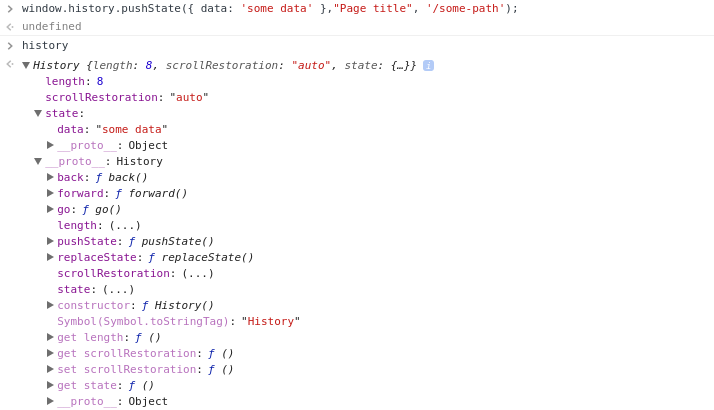
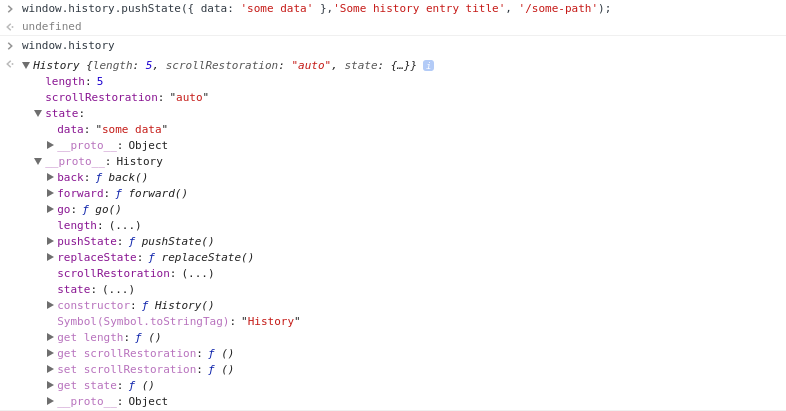
Finish editing client side routing in Vanilla JS article

Changed region(s): [[0.0308, 0.1463, 0.6162, 0.9951], [0.0, 0.0, 0.7703, 0.0293], [0.0308, 0.0585, 0.1541, 0.1171]]

diff --git a/_posts/2019-08-30-client-side-routing-in-vanilla-js.md b/_posts/2019-08-30-client-side-routing-in-vanilla-js.md
@@ -1,48 +1,56 @@
 ---
 layout: post
-title: "Implementing client side routing in VanillsJS"
-image: ""
-published: true
+title: "Implementing client side routing in Vanilla JS"
+image: "/images/client-side-routing-vanilla-js/train-track.jpg"
+published: false
 ---
 
-In contrast to traditional server side routing, SPA frameworks such as Angular and React use client side routing to handle navigation around an application. This client side routing is usually handled by some routing module or package, and for many developers how this routing actually works is something of a mystery. 
+In contrast to traditional server side routing, SPA frameworks such as Angular, React, Hyperapp and Vue use client side routing to handle navigation around an application. This client side routing is usually handled by some routing module or package, and for many developers how this routing actually works is something of a mystery. 
 
-In this article I will try and explain how client side routing works and walk you through how you can implement this client side routing functionality yourself. 
+The purpose of this article is to to take a deeper look at client side routing, and how we can write a simple implementation ourselves, using plain old Vanilla JS.
 
-Also, let me state that more than anything else this article is just for learning purposes, most of the time you are best off just using the router package or module which comes with your framework of choice. 
+First, will look at the basics of client side routing, including the behaviour we expect from single page application routing, and the challenges we will face when implementing it. Next, we will build a simple application with basic routing in Vanilla JS. Finally, we will think about the more advanced features that we usually see in client side routing packages, and implement one of them ourselves - parameterised routes.
+
+The code for the completed client side routing demo application can be found in [this Github repository](https://github.com/will093/client-side-routing-vanilla-js).
+
+Also, as a disclaimer, let me state that more than anything else this article is just for learning purposes, most of the time you are best off just using the router package or module which comes with your framework of choice. 
 
 # Routing basics
 
-First lets think about the behaviour that we have grown to expect from a single page application.
+First lets think about the behaviour that we have grown to expect from a single page application with routing.
 
-* When the application is first loaded, the route which is loaded and hence the content which is displayed is based on the url.
-* When the user navigates around within the application, the url changes. Without a full page reload a new route and hence some new content is displayed on the page, based on this new url.
-* When the user navigates using the browser forward/back buttons, they move through the stack of routes that they previously visited.
+* When the application is first loaded, the route which is loaded and the content which is displayed is determined by the URL path.
+* When the user navigates around by clicking a link within the application, the URL changes. Without a full page reload, a new route with new content is loaded, based on the new URL.
+* When the user navigates by clicking the browser forward/back buttons, they move through the stack of routes that they previously visited.
 
-When we think about implementing this ourselves, there are two main technical challenges which we are confronted with:
+If we think about implementing an application with this behaviour ourselves, there are two main technical challenges which we are confronted with:
 
-1. How do we change a url without causing a page reload, and preserve the behaviour of the browser forward/back buttons?
+1. How do we change the URL without causing a page reload, and also preserve the behaviour of the browser forward/back buttons?
 2. How do we map any given URL to the appropriate template (or component)?
 
-The answer to question 2 is more complicated and depends on exact requirements - we will look at implementing an algorithm which can do this later on. As for changing a url without causing a page reload, we will use a method on the `history` api called `pushState`.
+The answer to question 2 is more complicated and depends on exact requirements - we will look at implementing an algorithm which can do this later on. 
+
+As for changing a URL without causing a page reload, we will use a method on the `history` api called `pushState`.
 
 ## history.pushState
 
-The [history.pushState](https://developer.mozilla.org/en-US/docs/Web/API/History_API#The_pushState()_method) method is part of HTML5 and is supported by all modern browsers. It allows you to push an entry to the browser's `history` object, specifying a state object for passing data to the new history entry, a title, and the url for the history entry.
+The [history.pushState](https://developer.mozilla.org/en-US/docs/Web/API/History_API#The_pushState()_method) method is part of HTML5 and is supported by all modern browsers. It allows you to push an entry to the browser's `history` object, specifying a state object for passing data to the new history entry, a title, and the URL for the history entry.
 
 ```js
-window.history.pushState({ data: 'some data' },"Page title", '/some-path');
+window.history.pushState({ data: 'some data' },'Some history entry title', '/some-path');
 ```
 
-We can test out the above by pasting it into the console inside of Chrome's developer tools. You should see that the url changes from whatever it was to '\<base-url\>/some-path'.
+We can test out the above by opening up a website in Chrome, and pasting it into the console inside of Chrome's developer tools. You should see that the URL changes from whatever it was to '\<website-base-url\>/some-path'.
 
-Now, if you type the command `window.history` into the console, you will see that the history object has been updated with this new entry, including the state object which we passed it, and the title (note that confusingly this [title will not be used as the page title](https://stackoverflow.com/a/13817807/11047122) in most browsers, and is just used as an 'advisory' title for this history entry).
+Now, if you type the command `window.history` into the console, you will see that the history object has been updated with this new entry, including the state object which we passed it, and the title.
 
 ![Chrome developer tools history object](/images/client-side-routing-vanilla-js/pushstate-console.png)
 
-Also, note that we can navigate backwards and forwards from this '/some-url' using the browser navigation buttons.
+Note that the title we pass in as an argument [will not be used as the page title](https://stackoverflow.com/a/13817807/11047122) in most browsers, and is just used as an 'advisory' title for this history entry.
 
-Now that we have had a look at routing basics including `history.pushState`, we are ready to implement a simple Vanilla JS application with basic routing.
+Also, note that we can navigate backwards and forwards from '/some-url' using the browser navigation buttons.
+
+Now that we have had a look at routing basics, including `history.pushState`, we are ready to implement a simple Vanilla JS application with basic routing.
 
 # Implementing a simple app
 
@@ -71,15 +79,17 @@ Our 'app' will just consist of an `index.html` containing the following code:
 </html>
 ```
 
-Ok, so its a pretty basic application - in fact just a HTML template.
+Ok, so its a pretty basic application - in fact for now it is just a HTML template.
 
-To run this, we will use an npm package called `http-server-spa`. This package is similar to `http-server`, but will allow us to fall back to `index.html` if a route does not match any resource on the server. This behaviour is the usual behaviour of a single page application, and will be useful for the purpose of this tutorial.
+To serve our application, we will use an npm package called `http-server-spa`. This package is similar to `http-server`, but will allow us to fall back to serving up `index.html` if a route does not match any resource on the server. This behaviour is the usual behaviour of a single page application, and will prove useful for the purpose of this tutorial.
+
+To install `http-server-spa`, run:
 
 ```
 npm install http-server-spa -g
 ```
 
-Now to run our application, from the root of your project, run:
+Now, to run our application, from the root of your project run:
 
 ```
 http-server-spa . ./index.html
@@ -87,7 +97,9 @@ http-server-spa . ./index.html
 
 This will server the current folder, with `index.html` as a fallback.
 
-If you navigate to `http://localhost:8080`, you should see the page/application.
+If you navigate to `http://localhost:8080`, you should see the application.
+
+![SPA routing demo](/images/client-side-routing-vanilla-js/spa-routing-demo.png)
 
 # Implementing routing
 
@@ -110,7 +122,7 @@ const routes = [
 ];
 ```
 
-This is just an array of route objects, our matching algorithm will loop through this array and attempt to match the URL to one of these. We won't worry about more advanced features like nested routes or parameterised routes just yet.
+This is just an array of route objects - we will soon implement a route matching algorithm which, when the user navigates within the app, will loop through the array and attempt to match the current URL to one of these. In our implementation, we won't worry about more advanced features like nested routes or parameterised routes just yet.
 
 Now lets implement our router - create a file named `router.js` and add the following code:
 
@@ -123,27 +135,29 @@ class Router {
   }
 
   loadRoute(...urlSegments) {
-    // Attempt to match the url to a route.
+    // Attempt to match the URL to a route.
     const matchedRoute = this._matchUrlToRoute(urlSegments);
 
-    // Push a history entry with the new url.
-    // We pass an empty object and an empty string as the historyState and title arguments, but their values do not really matter here.
+    // Push a history entry with the new URL.
+    // We pass an empty object and an empty string as the historyState
+    // and title arguments, but their values do not really matter here.
     const url = `/${urlSegments.join('/')}`;
     history.pushState({}, '', url);
 
-    // Append the given template to the DOM inside the router outlet.
+    // Append the template of the matched route to the DOM, inside the element with attribute data-router-outlet.
     const routerOutletElement = document.querySelectorAll('[data-router-outlet]')[0];
-    routerOutletElement.innerHTML = '';
-    // insertAdjacentHtml preserves any event handlers (setting innerHTML does not).
-    routerOutletElement.insertAdjacentHTML('beforeend', matchedRoute.template);
+    routerOutletElement.innerHTML = matchedRoute.template;
   }
 
   _matchUrlToRoute(urlSegments) {
     // Try and match the URL to a route.
     const matchedRoute = this.routes.find(route => {
-      // Assume that the route path always starts with a slash, and so the first item in the segments array 
-      // will always be an empty string. Slice the array to ignore this empty string.
+
+      // We assume that the route path always starts with a slash, and so 
+      // the first item in the segments array  will always be an empty
+      // string. Slice the array at index 1 to ignore this empty string.
       const routePathSegments = route.path.split('/').slice(1);
+
       // If there are different numbers of segments, then the route does not match the URL.
       if (routePathSegments.length !== urlSegments.length) {
         return false;
@@ -159,21 +173,28 @@ class Router {
     // Figure out the path segments for the route which should load initially.
     const pathnameSplit = window.location.pathname.split('/');
     const pathSegments = pathnameSplit.length > 1 ? pathnameSplit.slice(1) : '';
+
     // Load the initial route.
     this.loadRoute(...pathSegments );
   }
 }
 ```
 
-In the above, `loadRoute` has 3 main steps:
+The important part of the above is the `loadRoute` function, which has 3 main steps:
 
-1. Attempt to match the url to a route. 
+1. **Attempt to match the URL to a route.**
 
-  Our `_matchUrlToRoute` function will handle this, by searching for the first route where there are equal number of segments in the route path, and for each index the segments at that index are identical.
+    Our `_matchUrlToRoute` function will handle this, by searching for the first route where there are equal number of segments in the route path, and for each index the segments at that index are identical.
 
-2. Build a url from the `urlSegments`, and push a history entry with that url (this will update the url shown in the browser address bar).
+2. **Update the URL shown in the browser address bar**
 
-3. Replace the contents of the element marked as `data-router-outlet` with the template corresponding to the matched route.
+    We build a URL from the `urlSegments` (which in our case come from the values hardcoded into our HTML template), and then push a new history entry with this URL using `history.pushState`.
+
+3. **Update the DOM with the template for the new route**
+
+    This is done be replacing the contents of the element with the attribute `data-router-outlet` with the template corresponding to the matched route. We do this using `innerHTML` because it is easy. This technique is not suitable for production though, as it is makes our application vulnerable to JavaScript injection as we will discuss later.
+
+Note that we also have a `_loadInitialRoute` function which gets called in the constructor of our router, and will cause the correct route to load when the user first loads the application.
 
 Finally lets bring all of this together inside of `index.js`, where we will create an instance of our router, passing to it our array of routes:
 
@@ -210,19 +231,19 @@ Our `index.html` also needs updating with our new routing functionality.
 </html>
 ```
 
-Note how when our navigation buttons are clicked, we load the corresponding route by calling our `router.loadRoute` function, passing the url segments as individual string parameters.
+Note how when our navigation buttons are clicked, we load the corresponding route by calling our `router.loadRoute` function, passing the URL segments as individual string parameters.
 
-Now if you run the application again and go back to your browser, you should be able to navigate between the routes that we have created using Home/About/Contact buttons. If you have a play around, you will also see that the browser back, forward and refresh buttons work as usual.
+Now, if you run the application again and go back to your browser, you should be able to navigate between the routes that we have created using the ''Home', 'About' and 'Contact' buttons. If you have a play around, you will also see that the browser back, forward and refresh buttons work as expected.
 
 # Additional features
 
-The router that we have implemented is very basic. Most client side routers support more advanced features such as nested routing/child routes, parameterised routes, route data resolvers, and more. We won't look at all of these in this article, but the one I will cover here is extending the router to work with parameterised routes.
+The router that we have implemented is very basic. Most client side routers support more advanced features such as child routes, parameterised routes, route data resolvers, and more. We won't look at all of these in this article, but the one that I will talk about here is extending the router to work with parameterised routes.
 
 ## Implementing parameterised routes
 
-We will update our router to support parameterised routes, using the ':' token to indicate a parameterised route segment. For example: `/products/:productId`.
+We will update our router to support parameterised routes, using the `:` token to indicate a parameterised route segment. For example: `/products/:productId`.
 
-First lets add a route of this form. Inside of `routes.js` add the following at the end of the routes array:
+First lets add a route of this form. Inside of `routes.js`, add the following at the end of the routes array:
 
 ```js
 const routes = [
@@ -234,7 +255,7 @@ const routes = [
 ];
 ```
 
-Once we have parameterised routes, it would be nice to be able to render the template based on our route parameters. Lets get rid of our template property and replace it with a `getTemplate` function which will take our route parameters as an argument.
+Once we have parameterised routes, it would be nice to be able to render our templates based on our route parameters. Lets get rid of our template property and replace it with a `getTemplate` function, which will take our route parameters as an argument.
 
 ```js
 const routes = [
@@ -257,27 +278,32 @@ const routes = [
 ];
 ```
 
-Next, we need to update our algorithm for matching a url to a route.
+Next, we need to update our algorithm for matching a URL to a route.
 
 ```js
 _matchUrlToRoute(urlSegments) {
-  // Try and match the URL to a route.
   const routeParams = {};
+
+  // Try and match the URL to a route.
   const matchedRoute = this.routes.find(route => {
-    // Assume that the route path always starts with a slash, and so the first item in the segments array 
-    // will always be an empty string. Slice the array to ignore this empty string.
+
+    // We assume that the route path always starts with a slash, and so 
+    // the first item in the segments array  will always be an empty
+    // string. Slice the array at index 1 to ignore this empty string.
     const routePathSegments = route.path.split('/').slice(1);
+
     // If there are different numbers of segments, then the route does not match the URL.
     if (routePathSegments.length !== urlSegments.length) {
       return false;
     }
 
-    // If each segment in the url matches the corresponding route path, then the route is matched.
+    // If each segment in the url matches the corresponding segment in the route path, 
+    // or the route path segment starts with a ':' then the route is matched.
     const match = routePathSegments.every((routePathSegment, i) => {
       return routePathSegment === urlSegments[i] || routePathSegment[0] === ':';
     });
 
-    // If the route matches the url, pull out any params from the URL.
+    // If the route matches the URL, pull out any params from the URL.
     if (match) {
       routePathSegments.forEach((segment, i) => {
         if (segment[0] === ':') {
@@ -292,16 +318,16 @@ _matchUrlToRoute(urlSegments) {
 }
 ```
 
-Here, we have changed the logic of our matching algorithm. Now, for a url to match a route path, each segment of the route path must either match the url segment with the same index, or it can start with a `':'`, which signifies that it is a parametersied route parameter, and so will take the value of the url segment with the same index.
+Now, for a URL to match a route path, each segment of the route path must either match the URL segment with the same index, or start with a `':'`, which signifies that it is a parametersied route parameter and so will take the value of the URL segment with the same index.
 
-After a route is matched, we pull out the route parameters into an object. The key for each parameter is the value following the `':'` in the parameterised route segment, and the value is the url segment with the same index as that parameterised route segment.
+After a route is matched, we pull out the route parameters into an object. The key for each parameter is the value following the `':'` in the parameterised route segment, and the value is the URL segment with the same index as that parameterised route segment.
 
 We also need to update the last line of our `loadRoute` function, in order to wire everything up and render the templates for each route with its route params.
 
 ```js
 loadRoute(...urlSegments) {
   ...
-  routerOutletElement.insertAdjacentHTML('beforeend', matchedRoute.getTemplate(matchedRoute.params));
+  routerOutletElement.innerHtml = matchedRoute.getTemplate(matchedRoute.params);
 }
 ```
 
@@ -317,29 +343,55 @@ Finally, we will add some product buttons inside of `index.html` in order to tes
   </header>
 ```
 
-Now if you run the application again, you should see that these new product buttons load our parameterised route. If you type in a url of the form `/products/x` into the address bar, the string `'Product x'` will display in the page heading.
+Now if you run the application again, you should see that these new product buttons load our parameterised route. If you type in a URL of the form '/products/x' into the address bar, the string 'Product x' will display in the page heading.
 
-The above statement actually has some pretty serious security implications which i will touch on here.
+The above statement actually has some pretty serious security implications which I will touch on here.
 
-## Shortcomings and security flaws
+### Parameterised routes XSS vulnerability
 
 As I have already mentioned, this is not intended to be a production grade router. Apart from the fact that it is missing a number of features, it is vulnerable to JavaScript injection and XSS attacks.
 
 We can easily illustrate how a user can inject JavaScript into our application through our parameterised route, and carry out an XSS attack. Lets examine the following HTML.
 
+```html
 <img src="empty" onerror="alert('Damn our router is rubbish');"/>
+```
 
-`insertAdjacentHTML` won't execute any scripts that we include in a HTML string, so that is out of the question. However, we can attach event handlers to other HTML elements in order to execute JavaScript.
+Inserting HTML using `innerHTML` won't execute any scripts that we include in a HTML string, so injecting JavaScript in that way is out of the question. However, we can attach event handlers to other HTML elements such as images in order to execute JavaScript.
 
-If we encode this and put the following URL into the address bar, lets see what happens.
+If we encode our html string using [this tool](https://meyerweb.com/eric/tools/dencoder/), we can build the following product route url from the encoded string:
+
+```
+/products/%3Cimg%20src%3D%22empty%22%20onerror%3D%22alert(%27Damn%20our%20router%20is%20rubbish%27)%3B%22%2F%3E
+```
+
+And now if we paste the above into the Chrome address bar and hit enter, lets see what happens.
 
 ![Router XSS](/images/client-side-routing-vanilla-js/router-xss.png)
 
-Wow! That is not good. A production grade router would have sanitised and potential sources of JavaScript injection such as parameterised routes. 
+Wow! That is not good, it was extremely easy to inject JavaScript into our application. 
 
+It goes to show that what we have here is a very basic implementation of client side routing. A production grade router would have sanitized the url before injecting segments of it into the DOM, in order to prevent this potential source of JavaScript injection. 
 
 # Conclusion
 
+We have explored how client side routing works, and seen how we can implement basic client side routing ourselves.
 
+Our router is far from feature complete, and if you are looking to learn more about client side routing then you could try to extend the router with more features, such as:
 
-TODO: talk about hyperapp routing
+* Child routes.
+* Integration with React or Hyperapp components.
+* Sanitization of the URL during parsing to prevent JavaScript injection.
+* A fallback (eg. 404 page) for if the URL which is navigated to doesn't match any route.
+
+Remember, you can find the code for the client side routing demo application in [this GitHub repository](https://github.com/will093/client-side-routing-vanilla-js).
+
+Finally, I would like to add that I found that looking at the [code for Hyperapp router](https://github.com/jorgebucaran/hyperapp-router) really helped me to understand how client side routing works.
+
+# Helpful Resources
+
+The following were really helpful for writing this article, and I very much recommend them as further reading:
+
+* <https://github.com/jorgebucaran/hyperapp-router>
+* <https://medium.com/swlh/lets-code-a-client-side-router-for-your-no-framework-spa-19da93105e10>
+
